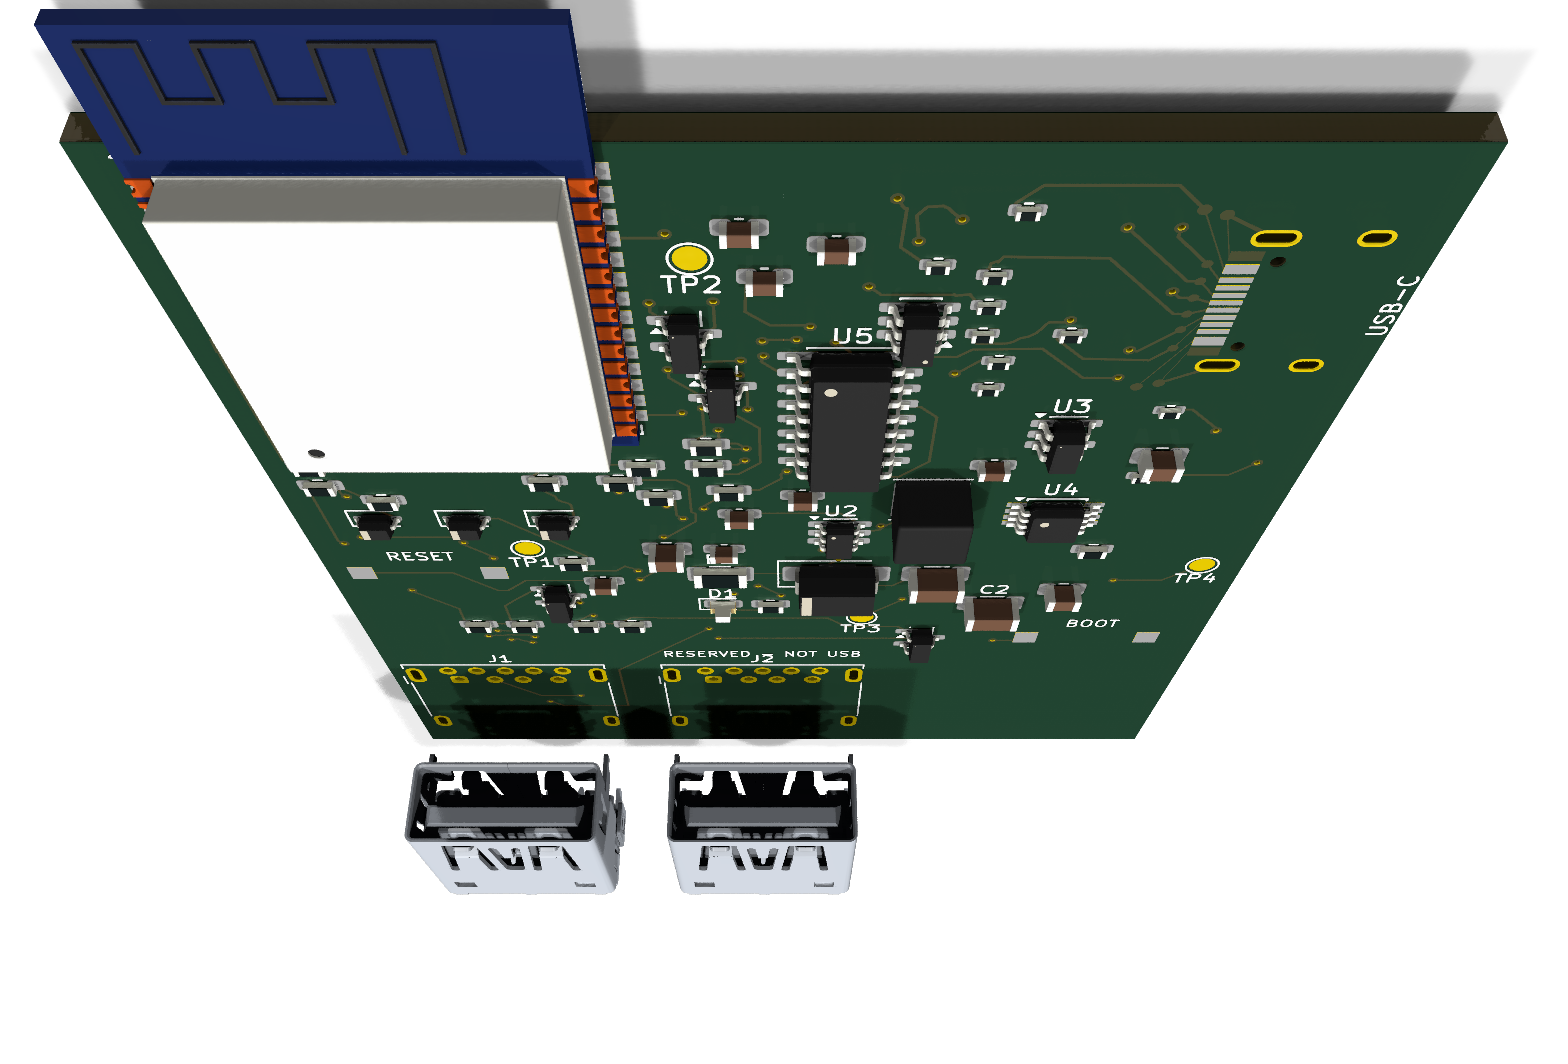
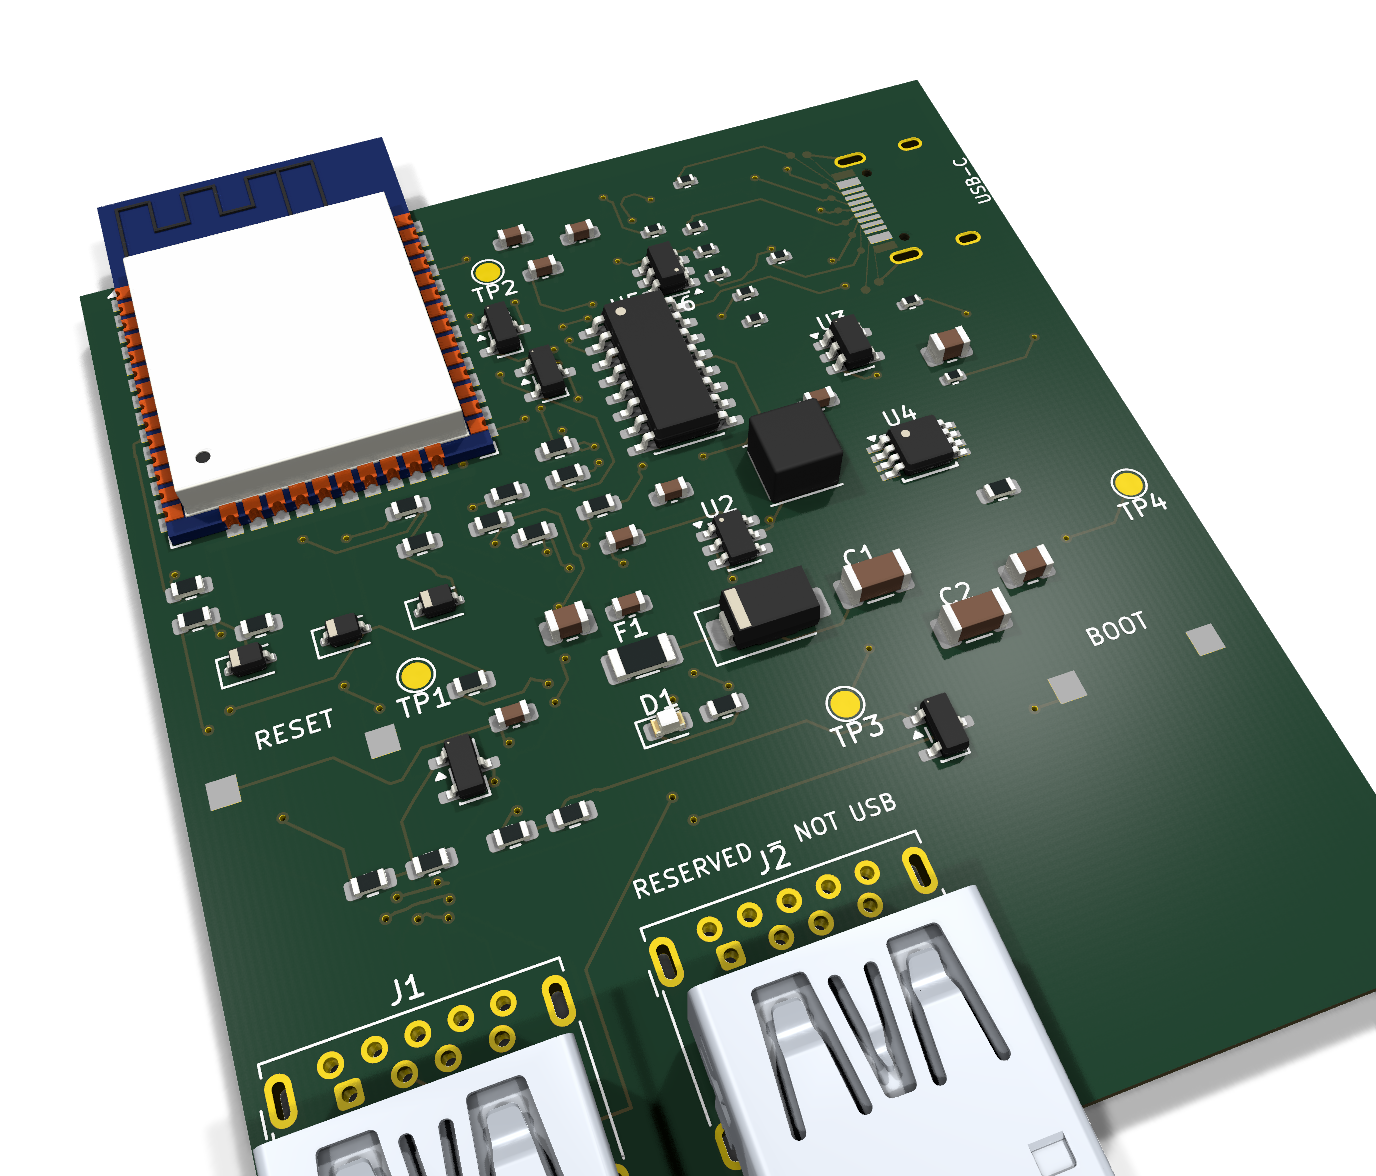
Fix V2 USB-A model seating height

diff --git a/PlayBridge.3dshapes/README_MOLEX_48393-0003_TRACEPARTS.md b/PlayBridge.3dshapes/README_MOLEX_48393-0003_TRACEPARTS.md
@@ -10,9 +10,14 @@ The legacy Three.js preview mesh was converted locally to VRML with `tools/trace
 
 KiCad attachment used by both V2 connector footprints:
 
-- Offset: `(3.5, -2.5, 5.5)`
+- Offset: `(3.5, -2.5, 1.732204724)`
 - Rotation: `(-90, 0, 0)` degrees
 - Scale: `(0.3937007874, 0.3937007874, 0.3937007874)`
+
+The Z offset seats the connector on the PCB instead of leaving it floating. It
+is derived from the model's 5.4998 mm terminal extremity minus the documented
+1.10 mm through-board tail, converted to KiCad WRL units:
+`(5.4998 - 1.10) / 2.54 = 1.732204724`.
 
 The scale is `1 / 2.54`, compensating for KiCad's VRML coordinate convention so the source millimetre geometry matches the 13.8 × 14.25 mm footprint envelope.
 
